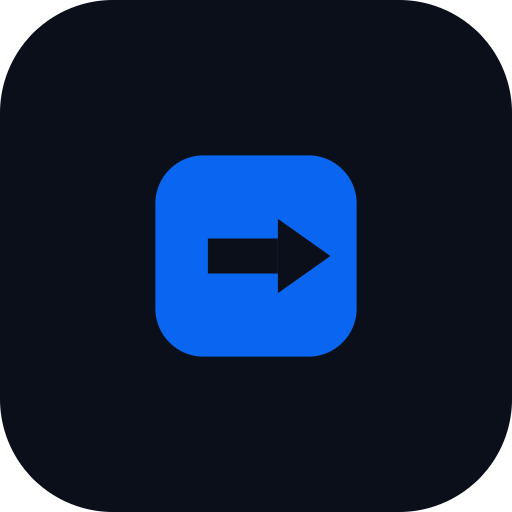
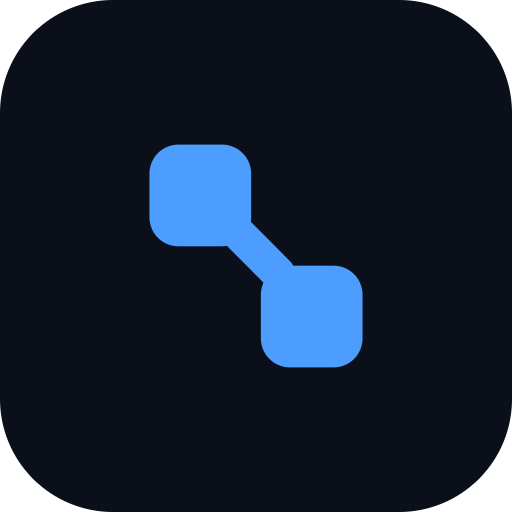
feat: brand identity system — two-screen mark, motion states, full asset set
- New mark: two device screens on the diagonal joined by a connection
  beam — the whole transfer story in one silhouette, no generic arrow or
  share glyph. One color throughout (currentColor) so it reads on light,
  dark, and accent surfaces, and holds shape down to a 16px favicon.
- Motion states on the mark itself: loading (breathes), connecting
  (packet oscillates on the beam), transfer (packet travels one way),
  complete (check settles in the receiving screen). SMIL-based; skipped
  under prefers-reduced-motion, which shows a static parked packet/check.
- Wired in: RoomHub connecting indicator, Session-ended screen (settled
  check on normal close), nav/header/hero everywhere; bumped the tiniest
  logo instances so the mark stays legible.
- Regenerated every brand asset from the new mark: SVG + 16/32/48 raster
  favicons, PWA 192/512 + maskable, apple-touch, OG card, and a new
  social-avatar (mark + wordmark, 1024²) for social profiles.

🤖 Generated with Codebuff

Changed region(s): [[0.2812, 0.2812, 0.7188, 0.7188]]

diff --git a/public/sw.js b/public/sw.js
@@ -24,6 +24,7 @@ const SHELL = [
   '/icon-maskable-512.png',
   '/apple-touch-icon.png',
   '/og.png',
+  '/social-avatar.png',
 ];
 
 self.addEventListener('install', (event) => {
